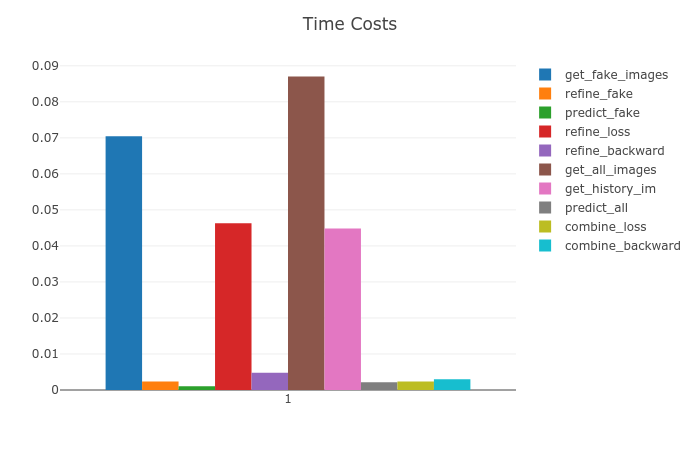
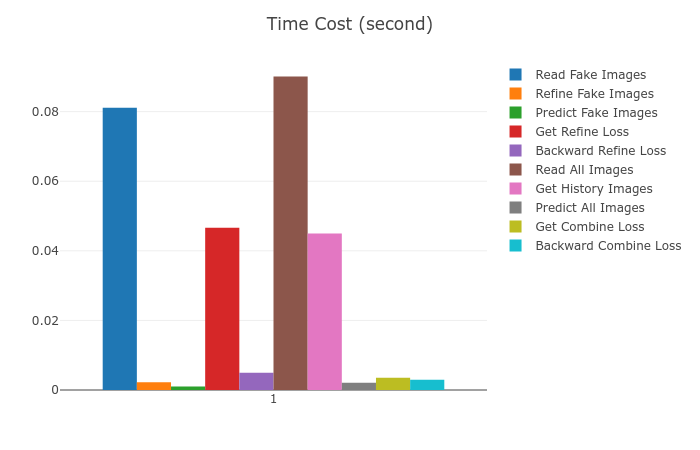
fix bugs in network architecture

diff --git a/main.py b/main.py
@@ -8,9 +8,9 @@ from torchvision import transforms
 from torch import nn
 
 from VisdomPortal.visportal.core import VisdomPortal
-from helper_func.image_history_buffer import ImageHistoryBuffer
-from helper_func.network import Discriminator, Refiner
-from helper_func.external_func import get_accuracy, loop_iter, MyTimer
+from utils.image_history_buffer import ImageHistoryBuffer
+from utils.network import Discriminator, Refiner
+from utils.external_func import get_accuracy, loop_iter, MyTimer
 import config as cfg
 
 
@@ -45,7 +45,7 @@ class Main(object):
             self.G.cuda(cfg.cuda_num)
             self.D.cuda(cfg.cuda_num)
 
-        self.refiner_optimizer = torch.optim.SGD(self.G.parameters(), lr=cfg.init_lr)
+        self.refiner_optimizer = torch.optim.Adam(self.G.parameters(), lr=cfg.init_lr)
         self.discriminator_loss = torch.optim.SGD(self.D.parameters(), lr=cfg.init_lr)
         self.combined_optimizer = torch.optim.SGD([
             {'params': self.G.parameters()},
@@ -182,15 +182,15 @@ class Main(object):
                 self.my_timer.track()
                 fake_images, _ = next(self.fake_images_iter)
                 fake_images = Variable(fake_images).cuda(cfg.cuda_num)
-                self.my_timer.add_value('get_fake_images')
+                self.my_timer.add_value('Read Fake Images')
                 # forward #1
                 self.my_timer.track()
                 refined_images = self.G(fake_images)
-                self.my_timer.add_value('refine_fake')
+                self.my_timer.add_value('Refine Fake Images')
                 # forward #2
                 self.my_timer.track()
                 refined_predictions = self.D(refined_images).view(-1, 2)
-                self.my_timer.add_value('predict_fake')
+                self.my_timer.add_value('Predict Fake Images')
                 # calculate loss
                 self.my_timer.track()
                 refined_labels = Variable(torch.zeros(refined_predictions.size(0)).type(torch.LongTensor)).cuda(cfg.cuda_num)
@@ -198,13 +198,13 @@ class Main(object):
                 reg_loss = torch.mul(reg_loss, self.delta)
                 adv_loss = self.local_adversarial_loss(refined_predictions, refined_labels)
                 r_loss = reg_loss + adv_loss
-                self.my_timer.add_value('refine_loss')
+                self.my_timer.add_value('Get Refine Loss')
                 # backward
                 self.my_timer.track()
                 self.combined_optimizer.zero_grad()
                 r_loss.backward()
                 self.combined_optimizer.step()
-                self.my_timer.add_value('refine_backward')
+                self.my_timer.add_value('Backward Refine Loss')
 
             # ========= train the D =========
             self.G.eval()
@@ -217,11 +217,11 @@ class Main(object):
                 fake_images = Variable(fake_images).cuda(cfg.cuda_num)
                 real_images, _ = next(self.real_images_iter)
                 real_images = Variable(real_images).cuda(cfg.cuda_num)
-                self.my_timer.add_value('get_all_images')
+                self.my_timer.add_value('Read All Images')
                 # generate refined images
                 self.my_timer.track()
                 refined_images = self.G(fake_images)
-                self.my_timer.add_value('refine_fake')
+                self.my_timer.add_value('Refine Fake Images')
                 # use a history of refined images
                 self.my_timer.track()
                 refined_images = refined_images.detach()
@@ -231,12 +231,12 @@ class Main(object):
                     history_refined_images = torch.from_numpy(half_batch_from_image_history)
                     history_refined_images = Variable(history_refined_images).cuda(cfg.cuda_num)
                     refined_images[:cfg.batch_size // 2] = history_refined_images
-                self.my_timer.add_value('get_history_im')
+                self.my_timer.add_value('Get History Images')
                 # predict images
                 self.my_timer.track()
                 real_predictions = self.D(real_images).view(-1, 2)
                 refined_predictions = self.D(refined_images).view(-1, 2)
-                self.my_timer.add_value('predict_all')
+                self.my_timer.add_value('Predict All Images')
                 # get all loss
                 self.my_timer.track()
                 real_labels = Variable(torch.zeros(real_predictions.size(0)).type(torch.LongTensor)).cuda(
@@ -248,12 +248,12 @@ class Main(object):
                 pred_loss_refn = self.local_adversarial_loss(refined_predictions, refined_labels)
                 acc_ref = get_accuracy(refined_predictions, 'refine')
                 d_loss = pred_loss_refn + pred_loss_real
-                self.my_timer.add_value('combine_loss')
+                self.my_timer.add_value('Get Combine Loss')
                 self.my_timer.track()
                 self.D.zero_grad()
                 d_loss.backward()
                 self.discriminator_loss.step()
-                self.my_timer.add_value('combine_backward')
+                self.my_timer.add_value('Backward Combine Loss')
 
             if step % cfg.d_pre_per == 0:
                 print('------Step[%d/%d]------Time Cost: %.2f seconds' % (step, cfg.train_steps, time.time() - step_timer))
@@ -272,7 +272,7 @@ class Main(object):
                 vis.draw_curve(value=acc_ref, step=step, title='Refined Images Discriminator Accuracy')
 
                 time_dict = self.my_timer.get_all_time()
-                vis.draw_bars(time_dict, 'Time Costs')
+                vis.draw_bars(time_dict, 'Time Cost (second)')
                 step_timer = time.time()
 
             if step % cfg.save_per == 0 and step > 0:

diff --git a/utils/network.py b/utils/network.py
@@ -1,23 +1,20 @@
 from torch import nn
-
+import torch.functional as F
 
 class ResnetBlock(nn.Module):
     def __init__(self, input_features, nb_features=64):
         super(ResnetBlock, self).__init__()
         self.convs = nn.Sequential(
             nn.Conv2d(input_features, nb_features, 3, 1, 1),
-            nn.BatchNorm2d(nb_features),
+            nn.BatchNorm2d(input_features),
             nn.LeakyReLU(),
             nn.Conv2d(nb_features, nb_features, 3, 1, 1),
-            nn.BatchNorm2d(nb_features)
+            nn.BatchNorm2d(nb_features),
         )
         self.relu = nn.LeakyReLU()
-
     def forward(self, x):
         convs = self.convs(x)
-        sum = convs + x
-        output = self.relu(sum)
-        return output
+        return self.relu(convs + x)
 
 
 class Refiner(nn.Module):
@@ -26,7 +23,8 @@ class Refiner(nn.Module):
 
         self.conv_1 = nn.Sequential(
             nn.Conv2d(in_features, nb_features, 3, stride=1, padding=1),
-            nn.BatchNorm2d(nb_features)
+            nn.BatchNorm2d(nb_features),
+            nn.LeakyReLU()
         )
 
         blocks = []
@@ -42,7 +40,6 @@ class Refiner(nn.Module):
 
     def forward(self, x):
         conv_1 = self.conv_1(x)
-
         res_block = self.resnet_blocks(conv_1)
         output = self.conv_2(res_block)
         return output
@@ -54,26 +51,27 @@ class Discriminator(nn.Module):
 
         self.convs = nn.Sequential(
             nn.Conv2d(input_features, 96, 3, 2, 1),
-            nn.LeakyReLU(),
             nn.BatchNorm2d(96),
-            nn.Conv2d(96, 64, 3, 2, 1),
             nn.LeakyReLU(),
-            nn.BatchNorm2d(64),
 
-            nn.AvgPool2d(3, 2, 1),
+            nn.Conv2d(96, 64, 3, 2, 1),
+            nn.BatchNorm2d(64),
+            nn.LeakyReLU(),
+
+            nn.AvgPool2d(3, 1, 1),
 
             nn.Conv2d(64, 32, 3, 1, 1),
-            nn.LeakyReLU(),
             nn.BatchNorm2d(32),
-            nn.Conv2d(32, 32, 1, 1, 0),
             nn.LeakyReLU(),
-            nn.BatchNorm2d(32),
 
-            nn.AvgPool2d(3, 2, 1),
+            nn.Conv2d(32, 32, 1, 1, 0),
+            nn.BatchNorm2d(32),
+            nn.LeakyReLU(),
 
             nn.Conv2d(32, 2, 1, 1, 0),
-            nn.LeakyReLU(),
             # nn.BatchNorm2d(2),
+            nn.LeakyReLU(),
+
         )
 
     def forward(self, x):

diff --git a/config.py b/config.py
@@ -16,12 +16,7 @@ img_channels = 1
 syn_path = 'data/SynthEyes'
 # real image path
 real_path = 'data/MPIIGaze'
-# training result path to save
-train_res_path = 'results'
-# final_res_path = 'final_res'
 
-# result show in 4 sample per line
-pics_line = 4
 
 # =================== training params ======================
 # pre-train R times
@@ -29,15 +24,14 @@ g_pretrain = 1000
 # pre-train D times
 d_pretrain = 100
 # train steps
-train_steps = 10000000
+train_steps = 10000
 
 batch_size = 128
-# test_batch_size = 128
 # the history buffer size
 buffer_size = 12800
 
 k_d = 1  # number of discriminator updates per step
-k_g = 2  # number of generative network updates per step, the author of the paper said it's 50
+k_g = 5  # number of generative network updates per step, the author of the paper said it's 50
 
 # output R pre-training result per times
 r_pre_per = 50
